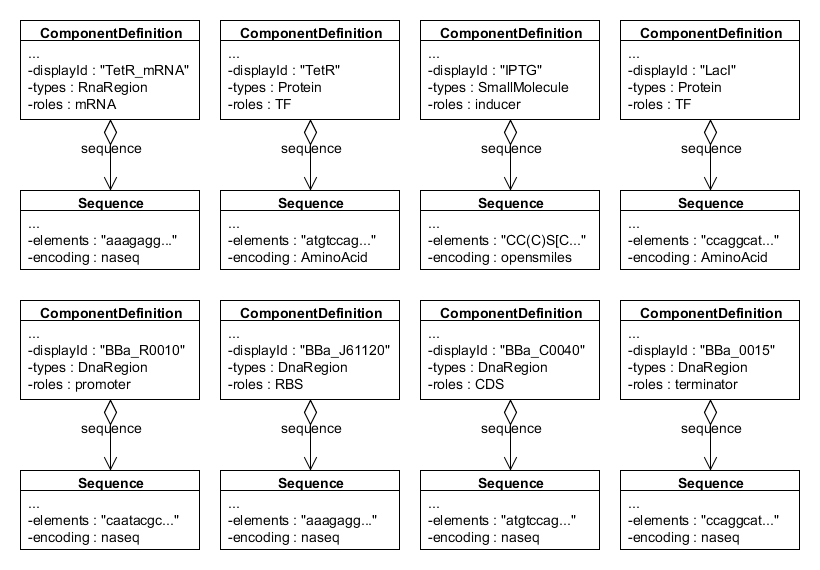
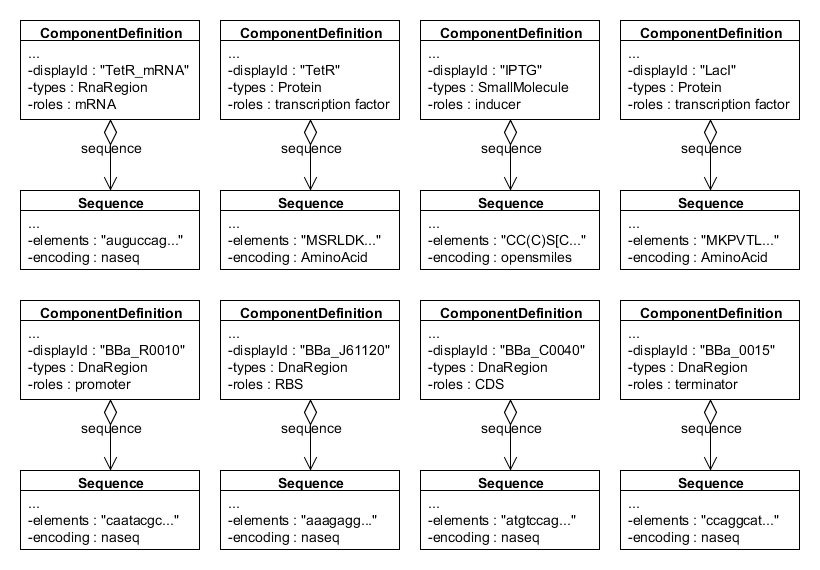
Update on Overleaf.

diff --git a/examples_model.tex b/examples_model.tex
@@ -1,5 +1,5 @@
 % -----------------------------------------------------------------------------
-\section{Example of Data Model}
+\section{Data Model Examples}
 \label{sec:examples}
 % -----------------------------------------------------------------------------
 
@@ -15,16 +15,16 @@ This section illustrates how to use the SBOL data model by specifying the design
 \end{center}
 \end{figure}
 
-The LacI/TetR toggle switch is modeled in SBOL as two parallel hierarchies of structure and function. Structurally, \sbol{ComponentDefinition} objects are used to hierarchically define the physical elements that comprise the toggle switch:
+The LacI/TetR toggle switch is modeled in SBOL as two parallel hierarchies of structure and function. The structural hierarchy of the toggle switch is represented using \sbol{ComponentDefinition}s:
 \begin{itemize}
-\item The base elements of the hierarchy are genetic elements, transcription factor complexes, and small-molecules.  As examples, \ref{uml:ex_comp_defs} shows UML diagrams of a number of such \sbol{ComponentDefinition} objects.
-\item These are composed to form more complex structures such as multi-element genetic complexes and molecular complexes. As examples, \ref{uml:ex_comp_def_compo} shows UML diagrams of the composite \sbol{ComponentDefinition} for the DNA construct for regulated expression of TetR and for the IPTG-LacI complex.
+\item The base elements of the hierarchy are DNA components, transcription factors, and small molecules. As an example, \ref{uml:ex_comp_defs} is a UML diagram of the \sbol{ComponentDefinition}s that represent these elements.
+\item Base elements are composed to form more complex structures at the top of the hierarchy, including genes and molecular complexes between transcription factors and small molecules. As an example, \ref{uml:ex_comp_def_compo} is a UML diagram of the composite \sbol{ComponentDefinition}s that represent the TetR gene and IPTG-LacI complex.
 \end{itemize}
 
 \begin{figure}[ht]
 \begin{center}
 \includegraphics[width=\textwidth]{example_uml/toggle_1}
-\caption[]{Examples of component definitions for the LacI inverter. These include DNA \sbol{ComponentDefinition}s based on parts from the iGEM Registry, the RNA and protein \sbol{ComponentDefinition}s derived from them, and the small molecule \sbol{ComponentDefinition} for IPTG. Each \sbol{ComponentDefinition} in this example is associated with a \sbol{Sequence} that has an IUPAC nucleic acid or amino acid encoding, except the \sbol{ComponentDefinition} for IPTG, which is associated with a \sbol{Sequence} that has a SMILES encoding.}
+\caption[]{\sbol{ComponentDefinition}s for the LacI inverter. These include \sbol{ComponentDefinition}s based on DNA parts from the iGEM Registry and  \sbol{ComponentDefinition}s that represent TetR mRNA, TetR, LacI, and and IPTG. Each \sbol{ComponentDefinition} is associated with a \sbol{Sequence} that has an IUPAC nucleic acid or amino acid encoding, except the \sbol{ComponentDefinition} for IPTG, which is associated with a \sbol{Sequence} that has a SMILES encoding.}
 \label{uml:ex_comp_defs}
 \end{center}
 \end{figure}
@@ -32,54 +32,39 @@ The LacI/TetR toggle switch is modeled in SBOL as two parallel hierarchies of st
 \begin{figure}[ht]
 \begin{center}
 \includegraphics[width=\textwidth]{example_uml/toggle_2}
-\caption[]{Example of composite \sbol{ComponentDefinition}s for the LacI inverter. In the case of the TetR gene, its sub-\sbol{Component}s are located as \sbol{Range}s along its \sbol{Sequence} using \sbol{SequenceAnnotation}s. The IPTG-LacI complex, however, has no sequence and its subcomponents are aggregated without any data about their relative locations.}
+\caption[]{Composite \sbol{ComponentDefinition}s for the LacI inverter. In the case of the \sbol{ComponentDefinition} that represents the TetR gene, its sub-\sbol{Component}s are located as \sbol{Range}s along its \sbol{Sequence} using \sbol{SequenceAnnotation}s. The \sbol{ComponentDefinition} that represents the IPTG-LacI complex, however, has no \sbol{Sequence} and its sub-\sbol{Component}s are aggregated without any data about their relative positions.}
 \label{uml:ex_comp_def_compo}
 \end{center}
 \end{figure}
 
-The functional hierarchy of the toggle switch is specified using
-\sbol{ModuleDefinition} objects:
+The functional hierarchy of the toggle switch is represented using
+\sbol{ModuleDefinition}s:
 \begin{itemize}
-\item The base elements of the hierarchy are LacI-dependent repression of TetR expression (the LacI inverter) and TetR-dependent repression of LacI (the TetR inverter).  As an example, \ref{uml:ex_mod_def} shows a UML diagram of the LacI inverter module.
-\item These are composed as \sbol{Module} objects within the \sbol{ModuleDefinition} for the entire toggle switch.  \ref{uml:ex_mod_def_compo} shows the UML diagram of this composition into the toggle switch.
+\item The base elements of the hierarchy are LacI-dependent repression of TetR expression (the LacI inverter) and TetR-dependent repression of LacI (the TetR inverter). As an example, \ref{uml:ex_mod_def} is a UML diagram of the \sbol{ModuleDefinition} that represents the LacI inverter.
+\item Base elements are composed to form the toggle switch at the top of the hierarchy.  As an example, \ref{uml:ex_mod_def_compo} is a UML diagram of the \sbol{ModuleDefinition} that represents the toggle switch.
 \end{itemize}
-
-Each \sbol{ModuleDefinition} also contains the \sbol{FunctionalComponent}s that participate in \sbol{Interaction}s and are defined by the same \sbol{ComponentDefinition}s as the parallel \sbol{Component}s in the structural hierarchy of the toggle switch. Finally, \sbol{MapsTo} entities are used to refine which \sbol{FunctionalComponent}s of the functional hierarchy are identical or map them to \sbol{Component}s in the structural hierarchy.
-\todo[inline]{Need to clarify this explanation -JSB}
-
-\todo[inline]{ComponentDefinition.types in the following figure are not consistent with the list of BioPax ontological terms described previously in the Data Model section}
-
-As an example of functional representation, \ref{uml:ex_mod_def} specifies the module definition for a LacI inverter. This module definition aggregates and instantiates the component definitions for the TetR gene as functional components that participate in interactions. Note that the transcription and translation of TetR is represented using a single genetic production interaction that abstracts away the presence of the intermediate TetR mRNA. If this additional detail becomes necessary, then a new module could be created that includes both transcription and translation interactions and a TetR mRNA functional component. Finally, the module definition is also associated with a continuous SBML model from source file LacI\_Inverter.xml.
-\todo[inline]{This paragraph and next one need better phrasing -JSB}
 
 \begin{figure}[ht]
 \begin{center}
 \includegraphics[width=\textwidth]{example_uml/toggle_3}
-\caption[]{Example of module definition for a LacI inverter.}
+\caption[]{\sbol{ModuleDefinition} for the LacI inverter. This \sbol{ModuleDefinition} instantiates the \sbol{ComponentDefinition}s for the LacI/TetR transcription factors and the sub-\sbol{ComponentDefinition}s of the TetR gene as \sbol{FunctionalComponent}s that participate in a repression \sbol{Interaction} and a genetic production \sbol{Interaction}. In this case, the transcription and translation of TetR are represented as a single genetic production \sbol{Interaction} that abstracts away the presence of the intermediate TetR mRNA. In addition, the \sbol{ComponentDefinition} for the TetR gene is instantiated by the LacI inverter \sbol{ModuleDefinition} to indicate that the latter describes the function of the TetR gene as a whole. Finally, this \sbol{ModuleDefinition} is also associated with a continuous \sbol{Model} written in the SBML source file ``LacI\_Inverter.xml.''}
 \label{uml:ex_mod_def}
 \end{center}
 \end{figure}
 
-As an example of functional composition, \ref{uml:ex_mod_def_compo} specifies the composite module definition for the LacI/TetR toggle switch. This module definition aggregates and instantiates the LacI and TetR inverter module definitions as submodules. It also instantiates the LacI and TetR component definitions as the functional component inputs and/or outputs to both the toggle switch and inverter module definitions. To complete the functional composition of the toggle switch, mappings are made between these functional components to indicate that the output of the LacI inverter is the input to the TetR inverter and vice versa.
-
 \begin{figure}[ht]
 \begin{center}
 \includegraphics[width=\textwidth]{example_uml/toggle_4}
-\caption[]{Example of composing the module definitions for a LacI inverter and TetR inverter into a module definition for a LacI/TetR toggle switch.}
+\caption[]{Composite \sbol{ModuleDefinition} for the LacI/TetR toggle switch. This \sbol{ModuleDefinition} instantiates the LacI and TetR inverter \sbol{ModuleDefinition}s as sub-\sbol{Module}s. It also instantiates the \sbol{ComponentDefinition}s for the LacI/TetR transcription factors and IPTG/aTc small molecules as \sbol{FunctionalComponent}s that participate in non-covalent binding \sbol{Interaction}s. To complete the composition of the \sbol{ModuleDefinition} for the toggle switch, \sbol{MapsTo} objects are used to indicate that the output of the LacI inverter is identical to the input of the TetR inverter and vice versa.
+}
 \label{uml:ex_mod_def_compo}
 \end{center}
 \end{figure}
 
-Lastly, as an example of further detailing the connection between structure and function, \ref{uml:ex_comp_mapping} specifies a mapping between the composite component definition for the TetR gene
+% Each \sbol{ModuleDefinition} also contains the \sbol{FunctionalComponent}s that participate in \sbol{Interaction}s and are defined by the same \sbol{ComponentDefinition}s as the parallel \sbol{Component}s in the structural hierarchy of the toggle switch. Finally, \sbol{MapsTo} entities are used to refine which \sbol{FunctionalComponent}s of the functional hierarchy are identical or map them to \sbol{Component}s in the structural hierarchy.
+
+\todo[inline]{ComponentDefinition.types in the following figure are not consistent with the list of BioPax ontological terms described previously in the Data Model section}
 
 %  The first use case is to indicate with greater fidelity how a module describes the function of a composite component, namely by asserting that particular component instantiations within the module correspond to particular component instantiations within the component. 
 
 % As an example of this use case, one might compose the structure and function of the LacI-repressible gene of the genetic toggle switch. In this example, the LacI-repressible gene and two of its subcomponents, the pLac promoter and cTetR CDS, are to be composed with the LacI inverter module. In order to compose these components with the LacI inverter module and indicate that it describes their behavior, they are instantiated inside the module. In addition, port maps are placed on the instantiation of the LacI-repressible gene to connect between its pLac plus cTetR subcomponent instantiations and the corresponding component instantiations in the module. Doing so makes it clear which subcomponent instantiations in the gene are being described by which component instantiations in the module. In this way, GDA tools for sequence editing and biochemical modeling can guarantee that their users are handling corresponding elements of a given genetic design, while GDA tools for genetic technology mapping can make explicit connections between the structural and functional elements of a design.
-
-\begin{figure}[ht]
-\begin{center}
-\includegraphics[width=\textwidth]{example_uml/toggle_5}
-\caption[]{Example of mapping between the structural and functional components of a LacI inverter.}
-\label{uml:ex_comp_mapping}
-\end{center}
-\end{figure}

diff --git a/model.tex b/model.tex
@@ -788,8 +788,8 @@ Each \sbol{MapsTo} entity must also specify the relationship between its local a
     \midrule
     \url{http://sbols.org/v2#useremote}  & Indicates that \sbol{ComponentInstance} from the child entity is used in the parent, instead of the \sbol{ComponentInstance} specified in the parent entity.\\
     \url{http://sbols.org/v2#uselocal}  & Indicates that \sbol{ComponentInstance} from the parent entity is used in the parent instead of the imported the \sbol{ComponentInstance} child entity.\\
-    \url{http://sbols.org/v2#verifyIdentical}  & \todo[inline]{Add description}\\
-        \url{http://sbols.org/v2#merge}  & \todo[inline]{Add description}\\
+    \url{http://sbols.org/v2#verifyIdentical}  & Indicates that ComponentInstance entities must link to the same \sbol{ComponentDefinition} object\\
+        \url{http://sbols.org/v2#merge}  & Indicates that data fields of the local and remote ComponentInstantiation entities are to be interpreted in combination\\
     \bottomrule
   \end{edtable}
   \caption{URIs for the refinement property.}
@@ -797,9 +797,8 @@ Each \sbol{MapsTo} entity must also specify the relationship between its local a
 \end{table}
 
 
-on the former \sbol{ModuleDefinition}  object can be used to link between a FunctionalComponent object in the parent Module (as specified by the ``local'' data field) and a FunctionalComponent object in the child module (as specified by the ``remote'' data field). This linking can perhaps be most easily understood via the examples in the next section.
-
-In addition to specifying a link, each MapsTo object must also specify a ``refinement'' relationship between its local and remote Components. Under this data model, there are four types of refinement: ``verifyIdentical'' requires that the Component objects link to the same ComponentDefinition object, ``useLocal'' indicates that the local Component object overrides the remote Component object, ``useRemote'' indicates the opposite, and “merge” indicates that data fields of the local and remote ComponentInstantiation objects are to be interpreted in combination.
+%GM: The paragraph below is now explained in the table above. Commented for now. Please remove the commented lines if you agree with the table description.
+%In addition to specifying a link, each MapsTo object must also specify a ``refinement'' relationship between its local and remote Components. Under this data model, there are four types of refinement: ``verifyIdentical'' requires that the Component objects link to the same ComponentDefinition object, ``useLocal'' indicates that the local Component object overrides the remote Component object, ``useRemote'' indicates the opposite, and “merge” indicates that data fields of the local and remote ComponentInstantiation objects are to be interpreted in combination.
 
 
 %\begin{figure}[ht]
@@ -818,7 +817,7 @@ In addition to specifying a link, each MapsTo object must also specify a ``refin
 \end{center}
 \end{figure}
 
-An example design of a \sbol{ComponentDefinition} using \sbol{MapsTo} entities is shown at the left hand side of the Figure \ref{image:maps_to_diagram2}. The resulting entity is formed of a promoter, a RBS and a CDS. Three sub components to create the design includes: a promoter-RBS \sbol{ComponentDefinition} with a RBS placeholder without detailed definition; a RBS \sbol{ComponentDefinition} with full description; and a RBS-CDS \sbol{ComponentDefinition} with a RBS placeholder, which is also not defined in full detail. In the figure, boxes with the C label represent \sbol{Component} entities and boxes with the M label represent the \sbol{MapsTo} entities. In the design RBSs that are not fully defined are replaced with another RBS \sbol{ComponentDefinition} (displayed in green colour). \sbol{MapsTo} entities attached to sub components for promoter-RBS and RBS-CDS \sbol{ComponentDefinition}s include the ''use local'' refinement to replace RBSs with the fully defined version. In the second design at the right hand side of the figure, \sbol{MapsTo} entities are used to import the RBS from the promoter-RBS \sbol{ComponentDefinition} overwriting the RBS in RBS-CDS \sbol{ComponentDefinition}. 
+An example design of a \sbol{ComponentDefinition} using \sbol{MapsTo} entities is shown at the left hand side of the Figure \ref{image:maps_to_diagram2}. The resulting entity is formed of a promoter, a RBS and a CDS. Three sub components to create the design includes: a promoter-RBS \sbol{ComponentDefinition} with a RBS placeholder without detailed definition; a RBS \sbol{ComponentDefinition} with full description; and a RBS-CDS \sbol{ComponentDefinition} with a RBS placeholder, which is also not defined in full detail. In the figure, boxes with the C label represent \sbol{Component} entities and boxes with the M label represent the \sbol{MapsTo} entities. In the design RBSs that are not fully defined are replaced with another RBS \sbol{ComponentDefinition} (displayed in green colour). \sbol{MapsTo} entities attached to sub components for promoter-RBS and RBS-CDS \sbol{ComponentDefinition}s include the ``use local'' refinement to replace RBSs with the fully defined version. In the second design at the right hand side of the figure, \sbol{MapsTo} entities are used to import the RBS from the promoter-RBS \sbol{ComponentDefinition} overwriting the RBS in RBS-CDS \sbol{ComponentDefinition}. 
 
 \todo[inline]{Add a table for refinement values and represent the value when serialized using the rdf:resource property}
 The serialization of \sbol{MapsTo}s has the following form.
